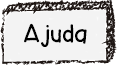
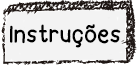
Botao instrucoes

diff --git a/css/style.css b/css/style.css
@@ -239,7 +239,7 @@ p
 
 #btnInstrucoes
 {
-	width: 117px;
+	width: 137px;
 	height: 65px;
 	background-image: url("../imgs/btnInstrucoes.png");
 	margin: 1.5rem;
